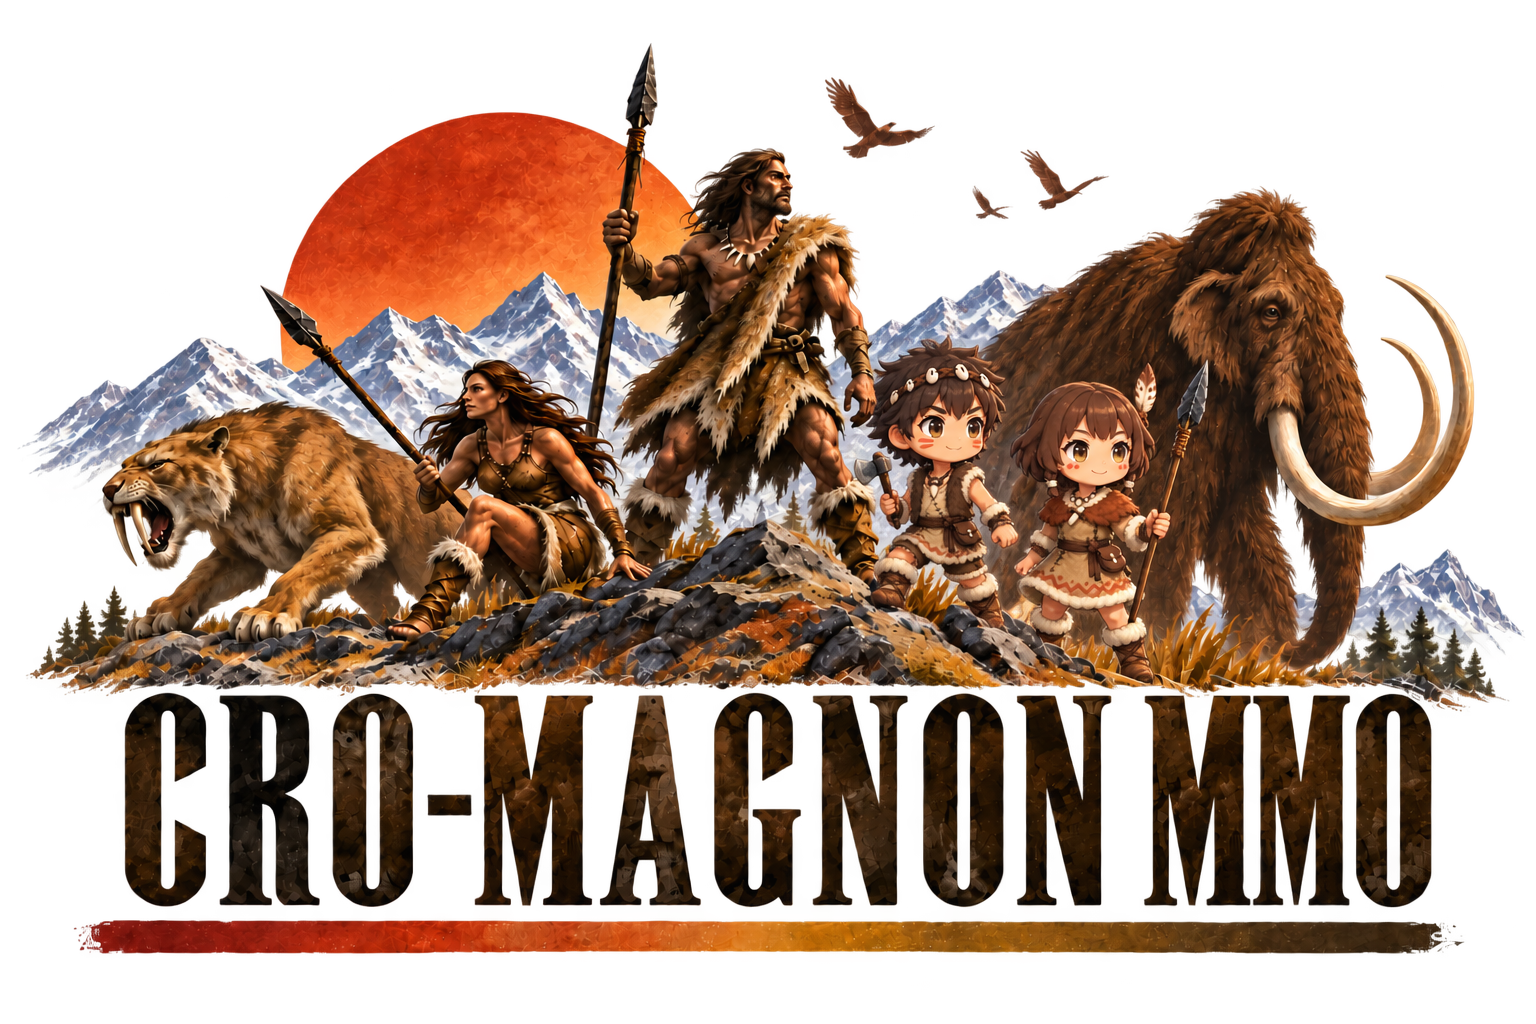
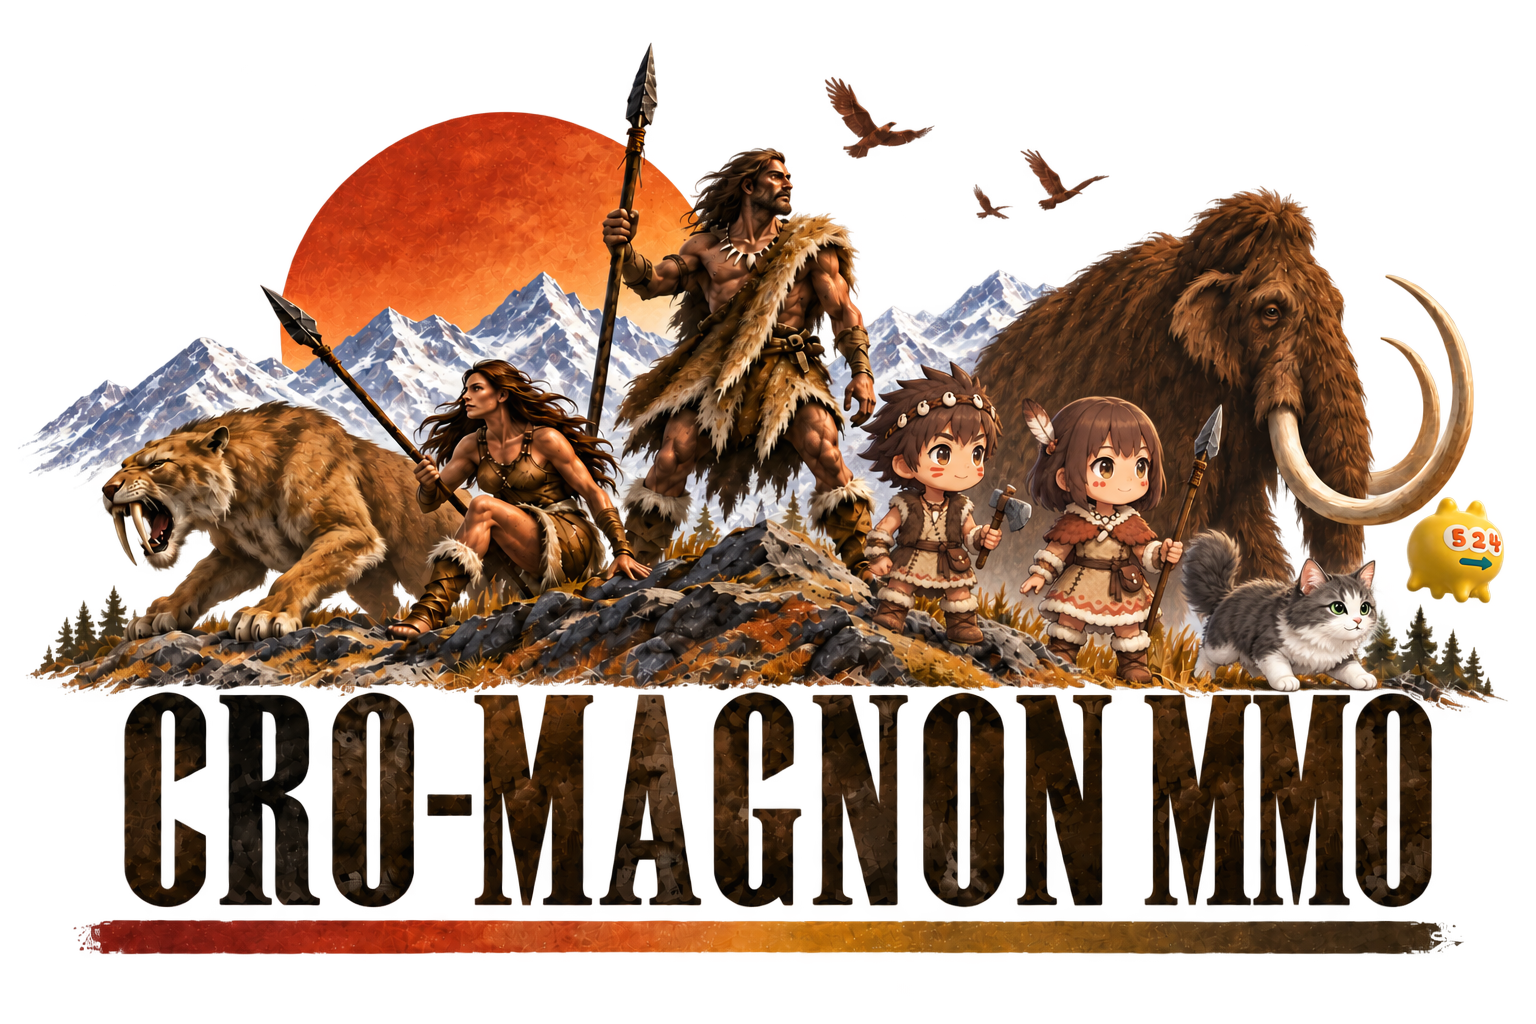
Replace title artwork with boy, girl, cat and 524

diff --git a/assets/title-credits/20261016-original-four-r01/README.md b/assets/title-credits/20261016-original-four-r01/README.md
@@ -1,0 +1,39 @@
+# 最初のタイトルから4キャラクターを一度だけ編集（2026-10-16）
+
+ユーザー指定：画像編集を重ねて周囲の絵が変わってきたため、今回の変更が始まる前の最初のタイトルを使い、男の子・女の子・猫・524をGPT Imageで一度だけまとめて編集する。
+
+## ゲームへの採用（2026-10-16）
+
+続く「ゲームのタイトル画像をこの画像に差し替えて」の指定により、この完成PNGを `public/title/cro-magnon-mmo-transparent.png` へ無加工でコピーし、ゲームが読む同名WebPも交換した。画像の再生成は0回。WebPはsharpの `lossless: true, exact: true, effort: 6, alphaQuality: 100` で変換し、元PNGとデコード後のRGBA全バイトが一致することを確認。1536×1024と透過を維持した。
+
[1 lines of base64/hex data omitted]
+
+通常3000番は確認時に停止中（health/statusともECONNREFUSED）だったため、保存機能を使わない一時サーバーで実Chromeを開き、1440×960・390×844・320×700・844×390のタイトルを確認。画像読込、ソロ開始有効・オンライン開始無効、横はみ出しなし、ブラウザーエラー0、配信PNG/WebPのSHA一致、確認用サーバーのhealth/status正常を確認した。PCと390pxの画面を目視し、4体とロゴの表示・透過を確認。ユーザーの保存ファイルはSHAと更新日時が前後で一致。一時サーバーは確認後に終了。通常サーバーの起動・停止・再起動、公開デプロイ、展示作成・配布は行っていない。
+
+関連14テスト、`npm run format:check`、`npm run check`（TypeScript、JavaScript 673ファイルの構文、依存境界）が合格。確認画像・配信照合・保存照合・チェックのログは `output/playwright/title-original-four-adoption-20261016/`。実スマホは未検証。
+
+## 出力
+
+- [完成PNG](cro-magnon-original-four.png)：1536×1024、2,525,727 bytes、アルファ付き。
[1 lines of base64/hex data omitted]
+- [実行した唯一のプロンプト](prompt.txt)、[入力と出力のSHA・実行回数](generation.json)。
+
+内蔵 `image_gen` を**1回だけ**実行した。返されたPNGをバイト単位でそのまま保存し、再編集・再生成・再圧縮・拡大縮小はしていない。生成時点ではゲームを切り替えず、続く依頼で上記のとおり採用した。これまでの別版も保持。
+
+## 入力
+
+今回の入力は次の5枚だけ。編集を重ねたタイトルは入力に含めていない。
+
[1 lines of base64/hex data omitted]
+2. [貝の鉢巻きの男の子](inputs/boy.png)：採用済みキャラクターの最初の参照画像 `cast1-b1.png`。
+3. [羽根飾りの女の子](inputs/girl.png)：採用済みキャラクターの最初の参照画像 `cast1-g1.png`。
+4. [猫](inputs/cat.png)：ユーザー添付の原画像。見た目だけの参考とし、ポーズは両前足を下ろして身構えるよう指定。
+5. [524](inputs/524.png)：ユーザー添付の原画像。浮かせ、人物の頭より少し小さくするよう指定。
+
+右の大人二人を男の子と女の子へ置換し、猫と524を右のマンモスの下付近へ追加。4体の向きは右へそろえた。中央と左の人物、虎、マンモス、山、太陽、鳥、暗いロゴは原画像を保持する指定。生成編集のため、編集領域外の画素単位の一致や「劣化ゼロ」は主張していない。
+
+## 生成時の検証
+
+寸法とアルファを確認。完全透明661,762画素、アルファ1〜239が131,452画素、240以上が779,650画素。実Chromeで淡色と緑の背景へオフライン描画し、画像読込成功・ブラウザーエラー0。淡色背景の画像で4体の配置、猫の両前足、524の浮遊と数字、ロゴと背景の構図、透過を目視した。
+
+関連3ファイル14テスト、`npm run format:check`、`npm run check`（TypeScript、JavaScript 673ファイルの構文、依存境界）が合格。結果と確認画像は `output/playwright/title-original-four-20261016/` に保存。この生成時点ではゲームへの採用・公開、3Dモデルの変更、サーバーの停止・再起動、展示作成・配布は行っていない。

diff --git a/docs/changelog/2026-10.md b/docs/changelog/2026-10.md
@@ -2,6 +2,24 @@
 
 `AGENTS.md` に積み上げていた日付付きの作業記録を、2026-10-07にこのファイルへ移した。新しいものが上。各項目は当時の実装・検証・配信状態の記録であり、現在の仕様は `README.md`・`docs/game-guide.md`・`GAME_IMPROVEMENT_PLAN.md` を正とする。
 
+## 2026-10-16 男の子・女の子・猫・524入りの完成画像をタイトルへ採用
+
+ユーザー指定により、最初のタイトルから一度だけ生成した完成画像を `public/title/cro-magnon-mmo-transparent.png` と同名WebPへ採用。PNGは無加工コピー、WebPは可逆圧縮で元PNGとのRGBA全バイト一致を確認し、1536×1024と透過を維持した。再生成なし。旧PNG/WebPを保存し、[採用記録・SHA・制作来歴](../../assets/title-credits/20261016-original-four-r01/README.md#ゲームへの採用2026-10-16)を記録。
+
+通常3000番は停止中だったため、保存を使わない一時サーバーの実ChromeでPC・スマホ縦横の4画面幅を確認。画像読込・横はみ出しなし・ソロ開始有効・オンライン開始無効、ブラウザーエラー0、配信PNG/WebPのSHA一致、確認用health/status正常、ユーザーの保存ファイル不変を確認。関連14テスト、書式、`npm run check`（TypeScript・JavaScript 673ファイルの構文・依存境界）が合格。記録は `output/playwright/title-original-four-adoption-20261016/`。実スマホは未検証。通常サーバーの起動・停止・再起動、公開、展示作成・配布は行っていない。
+
+## 2026-10-16 最初のタイトルから4体を一度の生成で編集
+
+ユーザー指定により、連続編集で周囲が変化したタイトルを使わず、変更前の最初のタイトルをSHAで照合し、男の子・女の子・猫・524の元の参照画像と合わせて内蔵GPT Imageを1回だけ実行。右の男女の置換、猫の身構える姿と前足を下ろす指定、524の浮遊・大きさ・右向きを一度に反映した。返された1536×1024の透過PNGを無加工で保存し、追加生成は行っていない。[完成画像と制作・入力来歴](../../assets/title-credits/20261016-original-four-r01/README.md)。
+
+実Chromeのオフライン描画で画像読込・透過・構図・4体の見た目を確認し、ブラウザーエラー0。関連14テスト、書式、`npm run check`（TypeScript・JavaScript 673ファイルの構文・依存境界）が合格。ログ・画面は `output/playwright/title-original-four-20261016/`。現在のゲームのタイトルと前版を保持し、ゲームへの採用・公開・サーバー操作・展示作成・配布は行っていない。
+
+## 2026-10-16 タイトル別版の猫を戦いに備える姿へ変更
+
+ユーザー指定により、猫と524入りタイトルの猫を内蔵GPT Imageで再編集。上げていた前足を下ろし、両前足を地面につけて右を警戒する姿にした。r04の透過PNG/WebPとして保存し、前版とプロンプト・SHAを保持。現在のゲームのタイトルは維持した。[修正版と制作記録](../../assets/title-credits/20261015-companions-r01/README.md#2026-10-16-猫が身構える修正版r04)。
+
+1536×1024と透過、現行タイトルのSHA不変、実Chromeの2背景で画像読込・猫の姿勢・524の浮遊と表記を確認し、ブラウザーエラー0。関連14テスト、`npm run check`（型・strict・673 JS構文・依存境界）、書式・差分空白が合格。ログ・画面は `output/playwright/title-art-cat-ready-20261016/`。ゲームへの採用・公開・サーバー操作・展示作成・配布は行っていない。
+
 ## 2026-10-16 ソロプレイの無操作による自動退出を廃止
 
 ユーザー指定により、ソロでは30秒以上操作しなくても退出しないようにした。ゲームコアの無操作退出をソロ用Workerだけで無効にし、新規開始と保存からの再開の両方へ適用。自動保存、手動でタイトルへ戻る時の保存、別タブの同時保存防止を保持した。オンライン接続用の30秒退出は既存のまま。恒久ルールとゲームガイドも現在のソロ仕様に合わせた。

diff --git a/assets/title-credits/README.md b/assets/title-credits/README.md
@@ -1,5 +1,17 @@
 # タイトル画像・クレジット
 
+## 2026-10-16 4キャラクター入りの完成画像をゲームへ採用
+
+ユーザー指定により、最初のタイトルから一度だけ生成した男の子・女の子・猫・524入りの完成PNGをゲームのタイトルへ採用した。`public/title/cro-magnon-mmo-transparent.png` を無加工コピーで更新し、ゲームが読む同名WebPを元PNGとRGBA全画素が一致する可逆圧縮にした。再生成なし。交換前のPNG/WebPも保存。[採用・制作記録とSHA](20261016-original-four-r01/README.md#ゲームへの採用2026-10-16)。通常3000番は停止中だったため保存しない確認用サーバーで実Chromeの4画面幅を検証し、配信SHA一致・ブラウザーエラー0・ユーザー保存ファイル不変を確認。通常サーバーの起動・再起動や公開は行っていない。
+
+## 2026-10-16 最初のタイトルから4体を一度だけ編集
+
+ユーザー指定により、連続編集済みの画像を使わず、変更前の最初のタイトル（SHA `74f97d00…`）と4体の元の参照画像を入力にして、内蔵GPT Imageを1回だけ実行した。右の男女を男の子・女の子へ置換し、前足を下ろして身構える猫と浮く524を追加。生成PNGを無加工で別名保存し、再生成はしていない。[完成画像・唯一のプロンプト・入力来歴と検証](20261016-original-four-r01/README.md)。現在のゲームのタイトルは維持。
+
+## 2026-10-16 別版の猫を戦いに備える姿へ変更
+
+ユーザー指定により、猫と524入りの別版の猫を、前足を上げた座り姿から両前足を地面につけて右を警戒する姿へ内蔵GPT Imageで変更。r04として透過PNG/WebPを保存し、前版r03も保持。現在のゲームのタイトルは変更していない。[修正版と制作・検証記録](20261015-companions-r01/README.md#2026-10-16-猫が身構える修正版r04)。
+
 ## 2026-10-15 猫と浮く524を加えた別バージョン
 
 承認済みのちびキャラクター入りタイトルを元に、ユーザー添付の灰白の猫と黄色い524を、右のマンモスの足元へ内蔵GPT Imageで追加。両方をかわいい二人と同じ右向きにし、524は二人の頭より少し小さい大きさで空中へ配置した。現在のゲームのタイトルは維持し、1536×1024・透過PNG/WebPの別版として保存。元画像・添付・途中revision・全プロンプトとSHAも保持した。[完成画像と制作・検証記録](20261015-companions-r01/README.md)。

diff --git a/assets/title-credits/20261015-companions-r01/README.md b/assets/title-credits/20261015-companions-r01/README.md
@@ -4,7 +4,17 @@
 
 現在のゲームで使っているタイトルは維持し、別バージョンとして保存した。ゲームへの切り替え、3Dモデルの変更、公開、サーバー操作は行っていない。
 
-## 完成ファイル
+## 2026-10-16 猫が身構える修正版（r04）
+
+ユーザー指定「ねこも、戦いに備える感じで。左手は上げないでほしい」により、内蔵GPT Imageで猫を再編集。両前足を地面につけ、後ろ足を踏ん張り、右を警戒する姿勢にした。灰白の長毛・緑の目・右向きと、浮いている524の位置・大きさを維持する指定。r03と同じ候補内の別revisionとして保存し、ゲームへの採用は行っていない。
+
+- [最新の透過PNG](cro-magnon-mmo-companions-r04.png)：1536×1024、2,812,112 bytes。
+- [最新の透過WebP](cro-magnon-mmo-companions-r04.webp)：1536×1024、441,202 bytes。
+- [使用プロンプト](prompt-r04.txt)、[入力・出力SHAと生成条件](generation-r04.json)。PNGは生成原本を無加工でコピーし、WebPは従来と同じ形式変換だけを行った。
+
+完全透明628,448画素、アルファ1〜239が127,316画素、240以上が817,100画素。実Chromeで淡色と緑の背景に描画し、両前足が下りた姿勢、右向き、524の浮遊と表記、透過を確認。画像読込成功・ブラウザーエラー0、現行タイトルPNGのSHA不変。関連14テスト、`npm run check`（型・strict・673 JS構文・依存境界）、書式・差分空白が合格。ログと画像は `output/playwright/title-art-cat-ready-20261016/`。3Dモデル、ゲームのタイトル、サーバーは変更していない。
+
+## 前版の完成ファイル（r03、保持）
 
 - [透過PNG](cro-magnon-mmo-companions-r03.png)：1536×1024、2,650,184 bytes。内蔵 `image_gen` の生成原本を無加工でコピー。
 - [透過WebP](cro-magnon-mmo-companions-r03.webp)：1536×1024、384,038 bytes。sharpで形式だけを変換（quality 86、effort 6、alphaQuality 100）、拡大・縮小なし。
